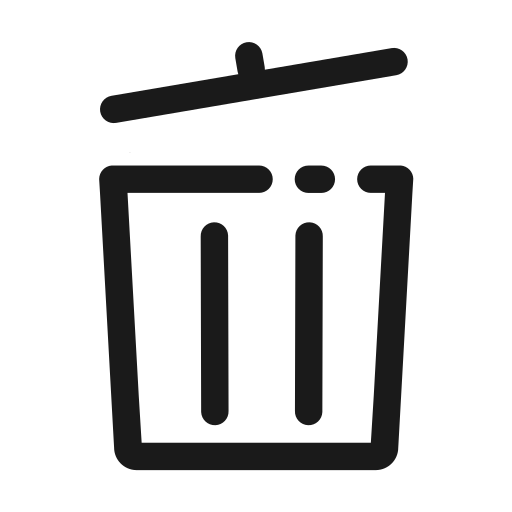
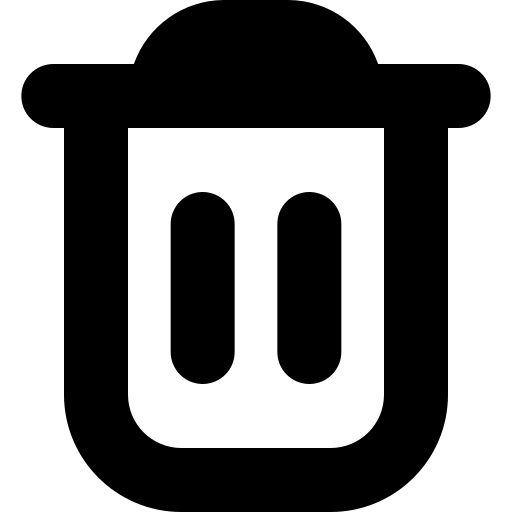
Extend todo list with completion and update functionality

diff --git a/script.js b/script.js
@@ -2,6 +2,8 @@
 const todoValue = document.getElementById("todoText"),
     listItems = document.getElementById("list-items"),
     addUpdateClick = document.getElementById("AddUpdateClick");
+let updateText
+
 
 // Detect when Enter key is pressed in the input field and automatically click the add/update button
 todoValue.addEventListener("keypress", function (e) {
@@ -17,18 +19,59 @@ function CreateToDoData() {
         alert("Please Enter your todo text!");
         todoValue.focus();
     }
-    
+
     //Create a new list item (li) and define its HTML content for the todo text and action buttons. Edit/Delete
+    //Clicking the todo text marks the task as completed by toggling a line-through style
     let li = document.createElement("li");
     const todoItems = `
-    <div>${todoValue.value}</div>
-    <div>
-        <img class="edit todo-controls" src="images/pencil.png" />
-        <img class="delete todo-controls" src="images/delete.png"/>
-    </div>`;
+        <div onclick="CompleteTodoItems(this)">
+            ${todoValue.value}
+        </div>
+        <div>
+            <img class="edit todo-controls" onclick="UpdateToDItems(this)" src="images/pencil.png" />
+            <img class="delete todo-controls" onclick="DeleteToDoItems(this)" src="images/delete.png"/>
+        </div>`;
 
     //Insert todo content into the new list item and display it in the list. Then reset the input for the next entry
     li.innerHTML = todoItems;
     listItems.appendChild(li);
     todoValue.value = "";
 }
+//Adds and removes a line through the todo text when clicked
+function CompleteTodoItems(e) {
+    if (e.style.textDecoration === "line-through") {
+        e.style.textDecoration = "none";
+    } else {
+        e.style.textDecoration = "line-through";
+    }
+
+}
+
+
+function UpdateOnSelectionItems() {
+    updateText.innerText = todoValue.value;
+
+    todoValue.value = "";
+
+    addUpdateClick.setAttribute("onclick", "CreateToDoData()");
+    addUpdateClick.setAttribute("src", "/images/plus.png");
+}
+
+
+//Change the add button into an update button when editing a todo item
+function UpdateToDItems(e) {
+    updateText = e.parentElement.parentElement.querySelector("div");
+
+    todoValue.value = updateText.innerText;
+
+    addUpdateClick.setAttribute("onclick", "UpdateOnSelectionItems()");
+    addUpdateClick.setAttribute("src", "/images/refresh.png");
+}
+
+function DeleteToDoItems(e) {
+    if (confirm("Are you sure? Do you want to delete this task!")) {
+
+    }
+}
+
+

diff --git a/index.html b/index.html
@@ -19,7 +19,7 @@
 
     <div class="todo-body">
       <input type="text" id="todoText" class="todo-input" placeholder="Add your task" />
-      <img src="images/plus_sign.png" alt="+" id="AddUpdateClick" onclick="CreateToDoData()">
+      <img src="images/plus.png" alt="+" id="AddUpdateClick" onclick="CreateToDoData()">
     </div>
     <ul id="list-items" class="list-items"></ul>
   </div>

diff --git a/style.css b/style.css
@@ -43,6 +43,7 @@ body {
     height: auto;
 }
 
+
 .todo-body {
     display: flex;
     align-items: center;